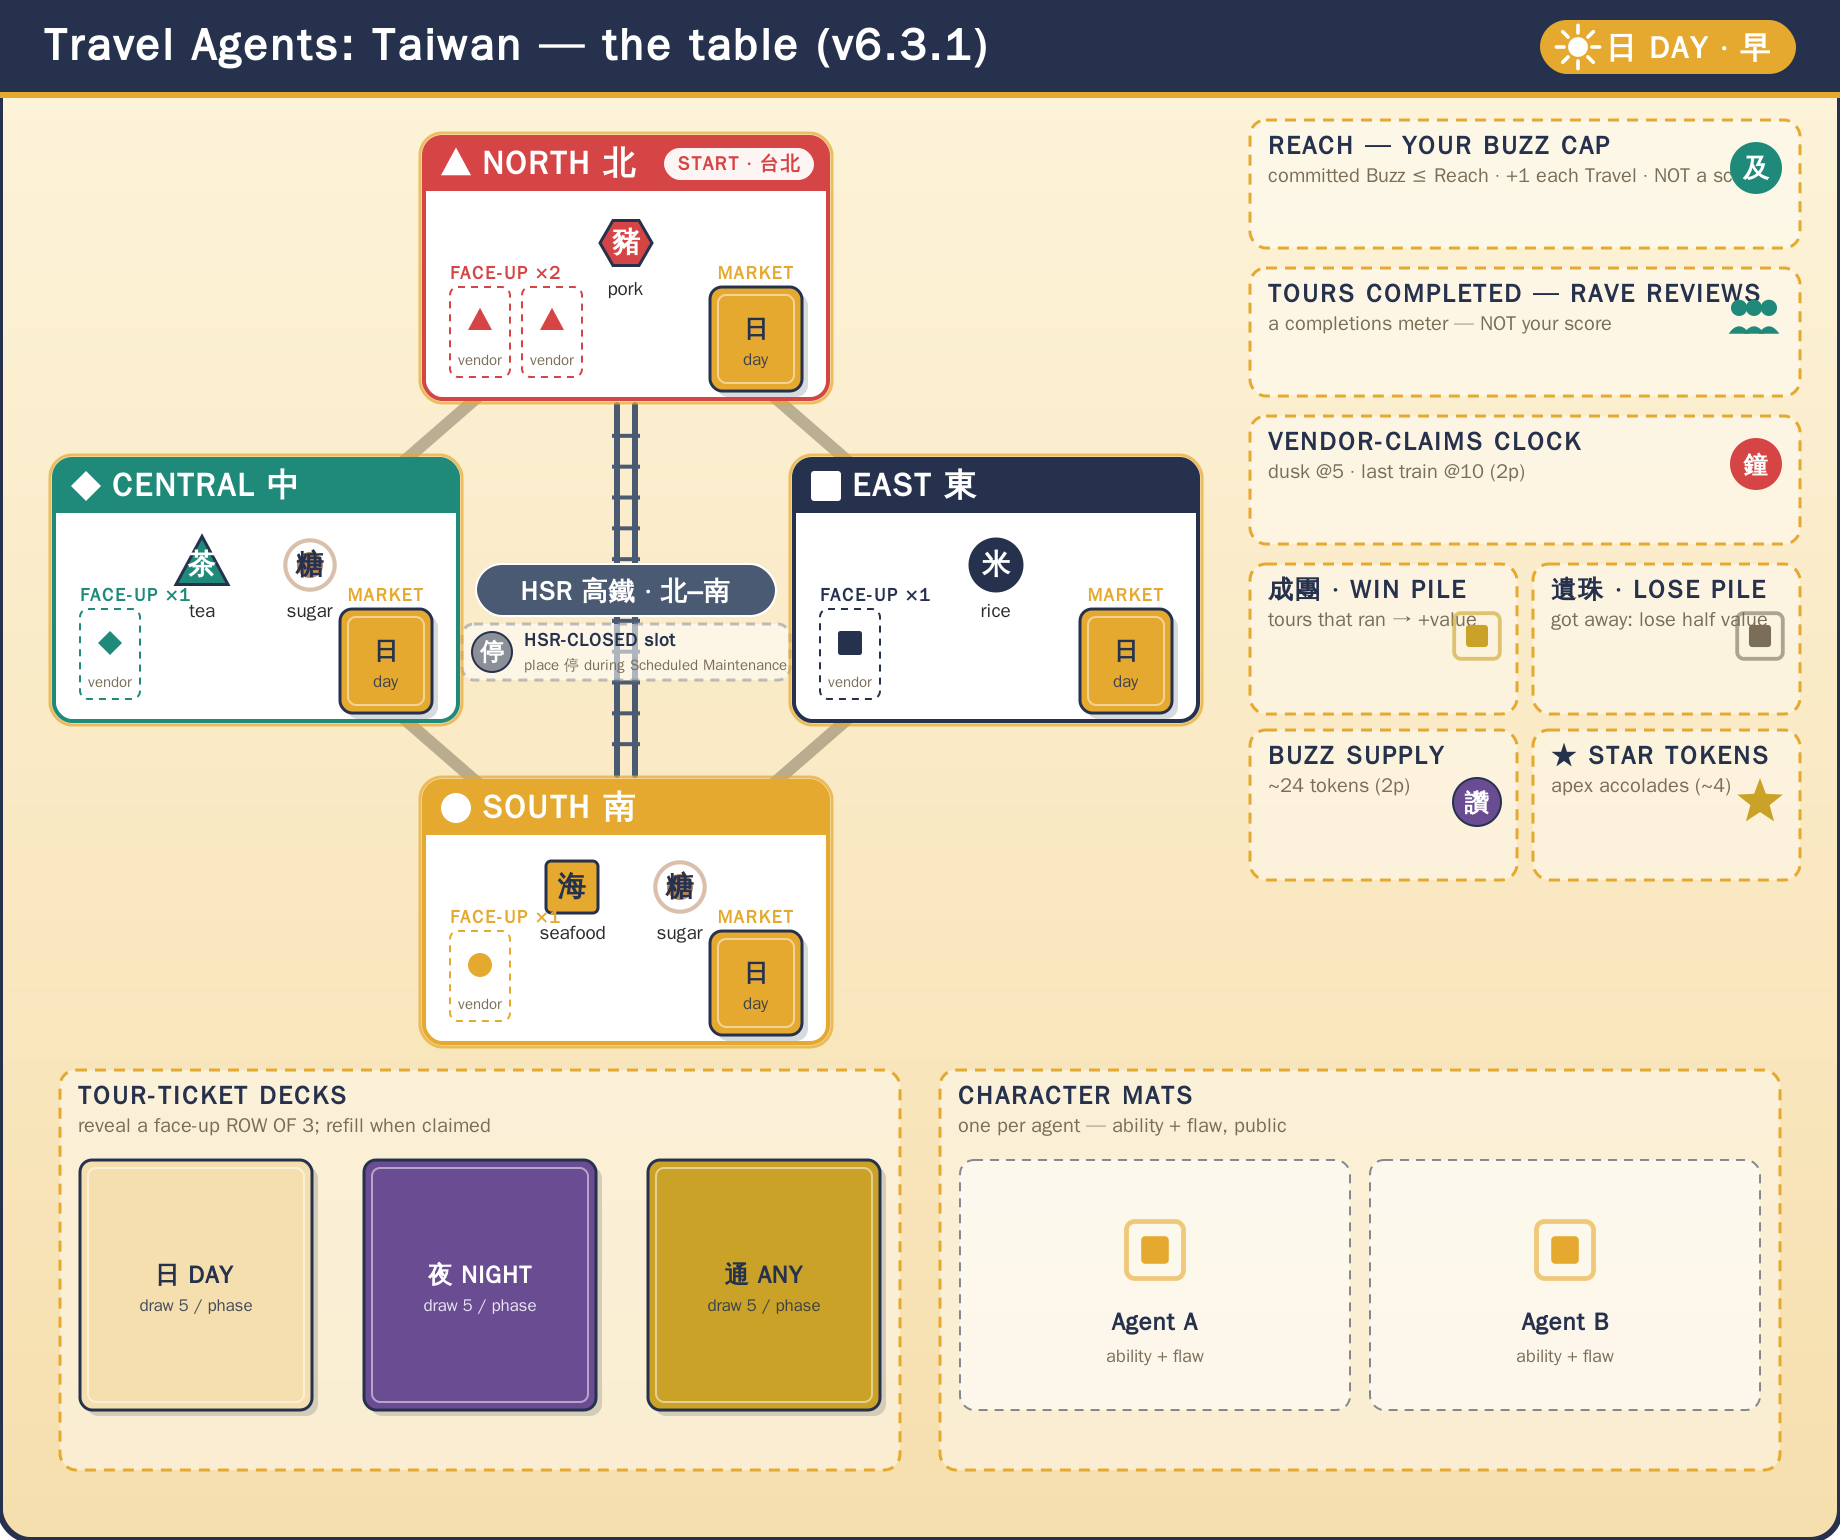
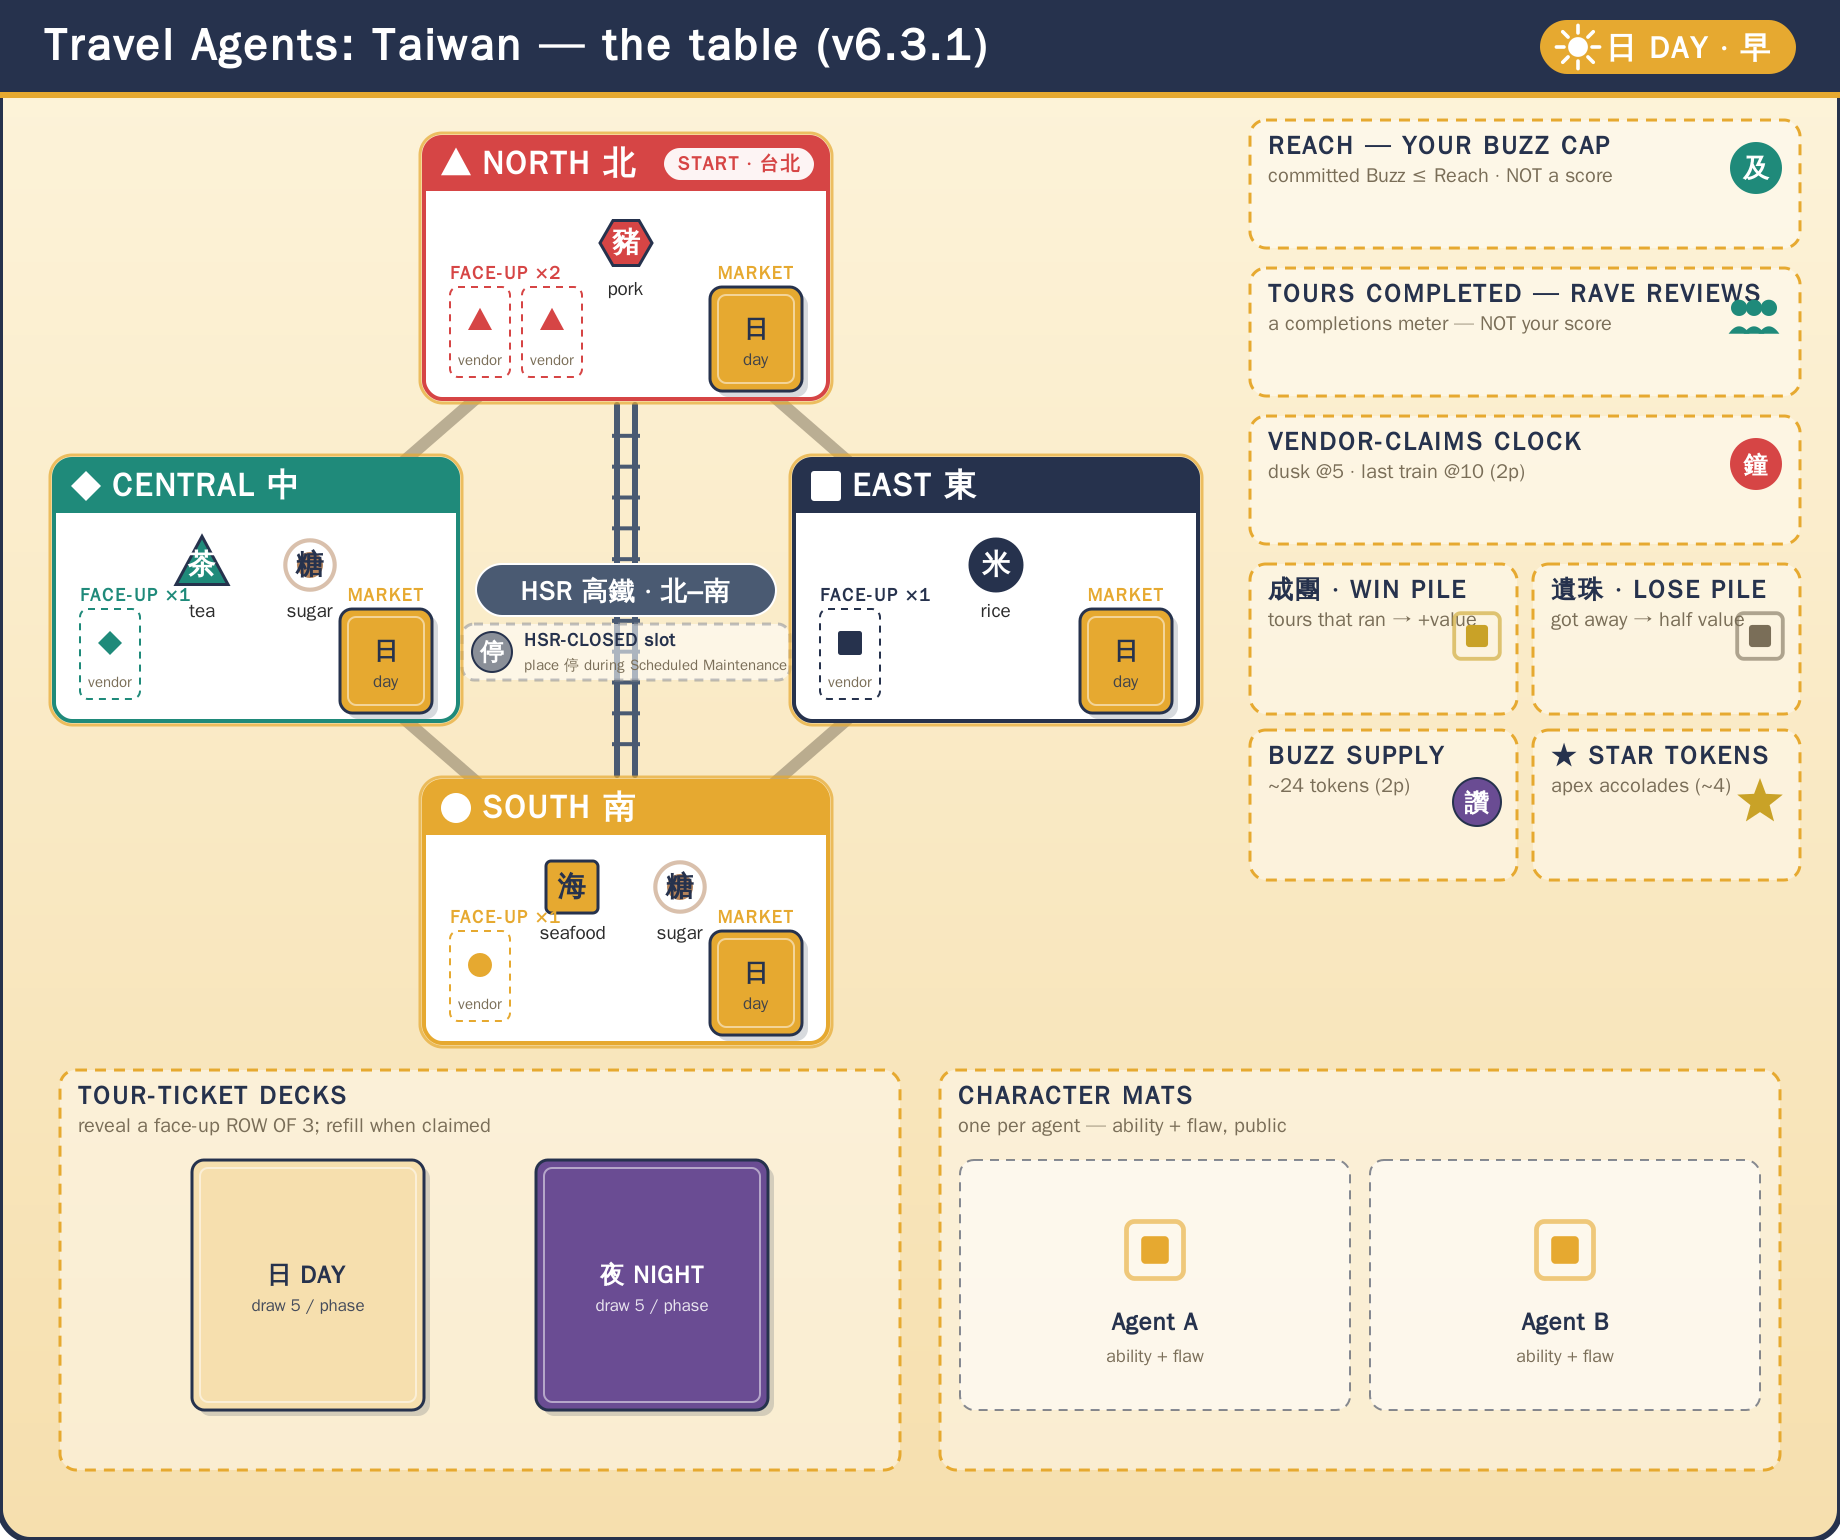
Fix the region board: drop phantom ANY ticket deck + un-clip two panels
Why: three at-a-glance readability bugs on the setup board (regionmap,
which is travel-agents-only, so these edits touch no other game):

1. The Tour-Ticket zone drew THREE decks (日 DAY / 夜 NIGHT / 通 ANY), but
   v6.3.1 collapsed the ticket pools 3→2 and missions.csv now has only
   day (20) + night (25) phases — there is no ANY pool. The board was
   telling a player to look for a deck that isn't in the box. Now renders
   the 2 real decks, generically spaced from len(tlabels) so it stays
   correct if the pools change again.
2. The REACH panel desc ran under the 及 emblem — "…NOT a sc[ore]" was
   clipped. Trimmed to "committed Buzz ≤ Reach · NOT a score" (the
   "+1 each Travel" detail already lives on the Reach track + player aid).
3. The LOSE-pile desc "got away: lose half value" ran under its emblem;
   shortened to "got away → half value", parallel with the WIN pile line.

Data is the source; both board states regenerated via make.sh.

Claude-Session: https://claude.ai/code/session_01BYsTkbsM578kobte3YG9zo

Changed region(s): [[0.031, 0.7481, 0.4957, 0.9351], [0.8984, 0.374, 0.9603, 0.4052], [0.8364, 0.0935, 0.8674, 0.1247]]

diff --git a/tools/boards/build_board.py b/tools/boards/build_board.py
@@ -469,7 +469,7 @@ def render_regionmap(theme, spec, phase="day"):
     parts.append(zone(rc_x, 120, rc_w, 128, "Reach — your Buzz cap",
                       f'<circle cx="{rc_x+rc_w-44}" cy="168" r="26" fill="{reach_teal}"/>'
                       f'<text x="{rc_x+rc_w-44}" y="177" font-size="26" fill="#fff" text-anchor="middle" font-family="{tfont}" font-weight="bold">及</text>',
-                      "committed Buzz ≤ Reach · +1 each Travel · NOT a score"))
+                      "committed Buzz ≤ Reach · NOT a score"))
     parts.append(zone(rc_x, 268, rc_w, 128, "Tours Completed — Rave Reviews",
                       emblem_svg("crowd", rc_x + rc_w - 46, 316, 24, reach_teal),
                       "a completions meter — NOT your score"))
@@ -484,7 +484,7 @@ def render_regionmap(theme, spec, phase="day"):
     parts.append(zone(rc_x, 564, pw, 150, "成團 · Win pile",
                       emblem_svg("stamp", rc_x + pw - 40, 636, 24, gold), "tours that ran → +value"))
     parts.append(zone(rc_x + pw + 16, 564, pw, 150, "遺珠 · Lose pile",
-                      emblem_svg("stamp", rc_x + pw + 16 + pw - 40, 636, 24, taupe), "got away: lose half value"))
+                      emblem_svg("stamp", rc_x + pw + 16 + pw - 40, 636, 24, taupe), "got away → half value"))
     # supply
     violet = theme["suits"].get("buzz", {}).get("color", "#6A4C93")
     parts.append(zone(rc_x, 730, pw, 150, "Buzz supply",
@@ -502,11 +502,13 @@ def render_regionmap(theme, spec, phase="day"):
     # tickets
     parts.append(zone(60, by, 840, 400, "Tour-Ticket decks", desc="reveal a face-up ROW OF 3; refill when claimed"))
     tdw, tdh = 232, 250
-    tspacing = (840 - 40 - 3 * tdw) / 2
-    tlabels = [("day", "日 DAY", ground[1]), ("night", "夜 NIGHT", "#3A2E52"), ("general", "通 ANY", gold)]
+    # v6.3.1 pools collapsed 3→2: missions.csv has day+night phases only (no ANY pool) — see game-bible.
+    tlabels = [("day", "日 DAY", ground[1]), ("night", "夜 NIGHT", "#6A4C93")]
+    n = len(tlabels)
+    tspacing = (840 - 40 - n * tdw) / (n + 1)
     for i, (pk, lab, cc) in enumerate(tlabels):
-        tx = 60 + 20 + i * (tdw + tspacing)
-        parts.append(facedown_deck(tx, by + 90, tdw, tdh, cc if pk != "night" else "#6A4C93", lab, "draw 5 / phase"))
+        tx = 60 + 20 + tspacing + i * (tdw + tspacing)
+        parts.append(facedown_deck(tx, by + 90, tdw, tdh, cc, lab, "draw 5 / phase"))
     # character mats
     parts.append(zone(940, by, 840, 400, "Character mats", desc="one per agent — ability + flaw, public"))
     mw = (840 - 40 - 20) / 2
